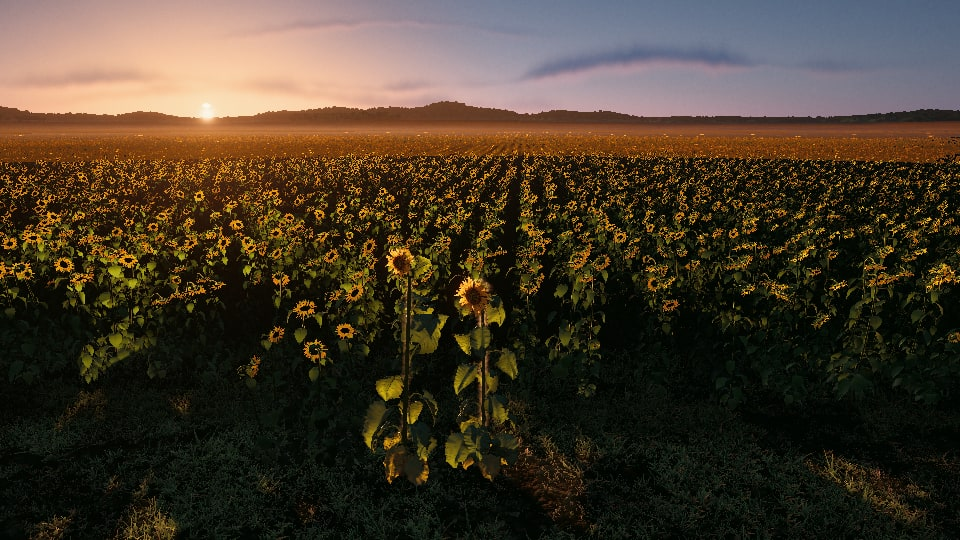
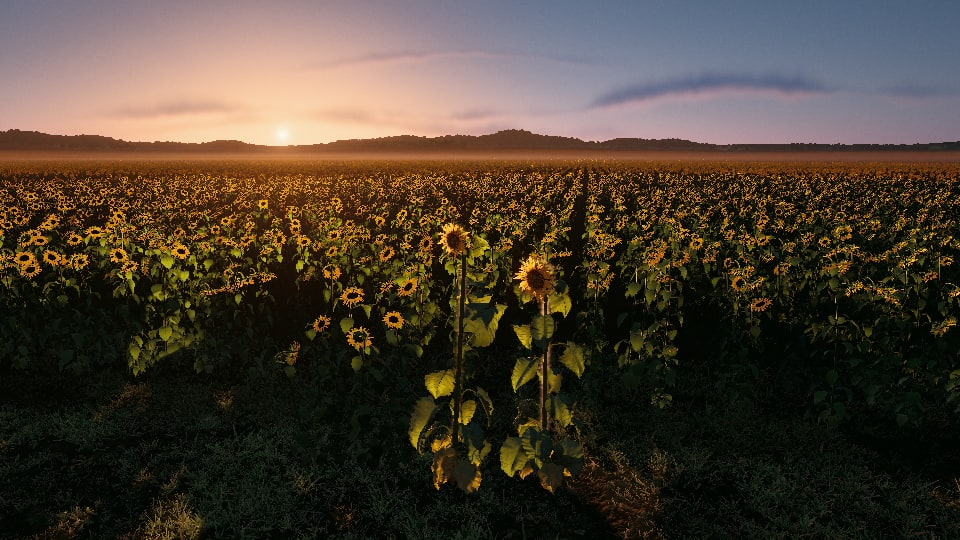
Looks of place, 2026-11-23 06:16 UTC

diff --git a/looks/NOTES.md b/looks/NOTES.md
@@ -1,10 +1,11 @@
 # Looks of place
 
-2026-11-23 05:52 UTC, at commit 180a6df of agent/place.
+2026-11-23 06:16 UTC, at commit dbb882e of agent/place.
 
-- `01-bar-69-with-the-even-sun-term-and-the-darker-pla.jpg`: Bar 69 with the even sun term and the darker plain
-- `02-bar-73.jpg`: Bar 73
-- `03-bar-67.jpg`: Bar 67
+- `01-bar-73-on-v2-fcc4c7e-the-ridge-dark-and-cool-its.jpg`: Bar 73 on v2 fcc4c7e: the ridge dark and cool, its foot in the mist
+- `02-bar-74-5.jpg`: Bar 74.5
+- `03-bar-69.jpg`: Bar 69
 - `04-bar-71.jpg`: Bar 71
-- `05-bar-74-5.jpg`: Bar 74.5
-- `06-bars-69-to-74-5-the-horizon-at-three-times-left-.jpg`: Bars 69 to 74.5, the horizon at three times, left and right halves
+- `05-bar-67.jpg`: Bar 67
+- `06-bars-69-71-73-74-5-the-horizon-at-three-times-le.jpg`: Bars 69, 71, 73, 74.5: the horizon at three times, left and right halves
+- `07-bars-73-and-74-5-at-three-times-before-and-after.jpg`: Bars 73 and 74.5 at three times, before and after the dusk, on the old crane
